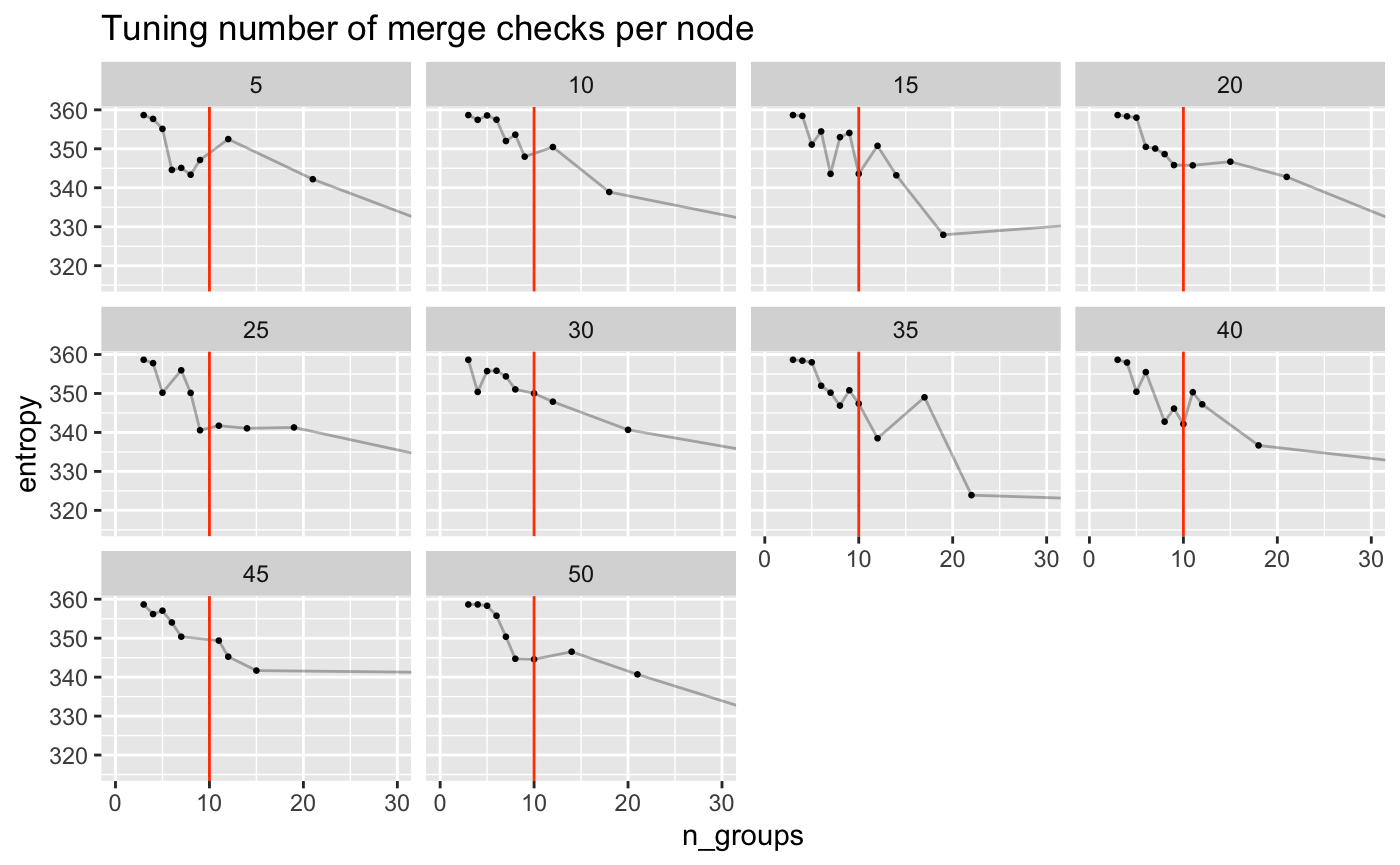
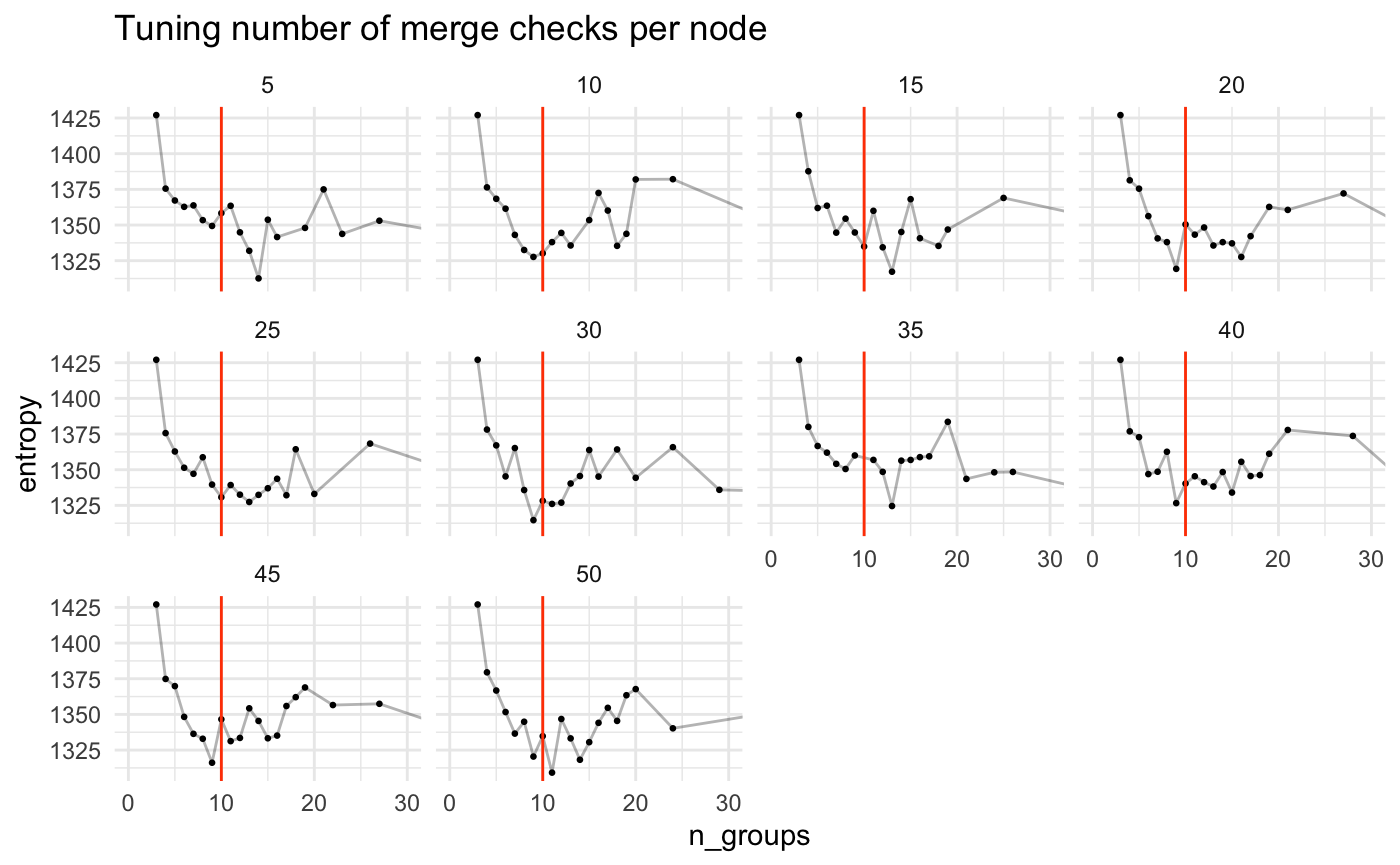
Updated clarity of plots in agglomerative merging vignette

diff --git a/docs/articles/agglomerative_merging.html b/docs/articles/agglomerative_merging.html
@@ -159,13 +159,13 @@
 <a class="sourceLine" id="cb5-10" data-line-number="10">}</a>
 <a class="sourceLine" id="cb5-11" data-line-number="11"></a>
 <a class="sourceLine" id="cb5-12" data-line-number="12"><span class="kw">extract_n_groups</span>(merge_results) <span class="op">%&gt;%</span><span class="st"> </span><span class="kw"><a href="https://rdrr.io/r/utils/head.html">head</a></span>()</a>
-<a class="sourceLine" id="cb5-13" data-line-number="13"><span class="co">#&gt; [1] 99 55 45 40 32 30</span></a></code></pre></div>
+<a class="sourceLine" id="cb5-13" data-line-number="13"><span class="co">#&gt; [1] 99 44 35 30 29 28</span></a></code></pre></div>
 <p>Next we can look at how that number of groups corresponds to the entropy of the model.</p>
 <div class="sourceCode" id="cb6"><pre class="sourceCode r"><code class="sourceCode r"><a class="sourceLine" id="cb6-1" data-line-number="1">extract_entropy &lt;-<span class="st"> </span><span class="cf">function</span>(merge_results){</a>
 <a class="sourceLine" id="cb6-2" data-line-number="2">  merge_results <span class="op">%&gt;%</span><span class="st"> </span>purrr<span class="op">::</span><span class="kw"><a href="https://purrr.tidyverse.org/reference/map.html">map_dbl</a></span>(<span class="st">'entropy'</span>)</a>
 <a class="sourceLine" id="cb6-3" data-line-number="3">}</a>
 <a class="sourceLine" id="cb6-4" data-line-number="4"><span class="kw">extract_entropy</span>(merge_results) <span class="op">%&gt;%</span><span class="st"> </span><span class="kw"><a href="https://rdrr.io/r/utils/head.html">head</a></span>()</a>
-<a class="sourceLine" id="cb6-5" data-line-number="5"><span class="co">#&gt; [1] 1292.981 1381.148 1413.521 1472.310 1475.906 1487.943</span></a></code></pre></div>
+<a class="sourceLine" id="cb6-5" data-line-number="5"><span class="co">#&gt; [1] 1240.473 1286.266 1330.581 1317.687 1329.398 1341.747</span></a></code></pre></div>
 <p>We should almost always see the entropy decrease as we remove groups but if there is signal in the model and the algorithm found it, we should see a relativel “lack of decrease” around the true structure value. We know the true number of groups in this data is 6 so we can reference that here…</p>
 <div class="sourceCode" id="cb7"><pre class="sourceCode r"><code class="sourceCode r"><a class="sourceLine" id="cb7-1" data-line-number="1">results_to_df &lt;-<span class="st"> </span><span class="cf">function</span>(merge_results){</a>
 <a class="sourceLine" id="cb7-2" data-line-number="2">  <span class="kw">tibble</span>(</a>
@@ -176,17 +176,28 @@
 <a class="sourceLine" id="cb7-7" data-line-number="7"></a>
 <a class="sourceLine" id="cb7-8" data-line-number="8"></a>
 <a class="sourceLine" id="cb7-9" data-line-number="9"></a>
-<a class="sourceLine" id="cb7-10" data-line-number="10">plot_merge_results &lt;-<span class="st"> </span><span class="cf">function</span>(merge_results_df){</a>
-<a class="sourceLine" id="cb7-11" data-line-number="11">  <span class="kw">ggplot</span>(merge_results_df, <span class="kw">aes</span>(<span class="dt">x =</span> n_groups, <span class="dt">y =</span> entropy)) <span class="op">+</span></a>
-<a class="sourceLine" id="cb7-12" data-line-number="12"><span class="st">    </span><span class="kw">geom_line</span>(<span class="dt">alpha =</span> <span class="fl">0.3</span>) <span class="op">+</span></a>
-<a class="sourceLine" id="cb7-13" data-line-number="13"><span class="st">    </span><span class="kw">geom_point</span>(<span class="dt">size =</span> <span class="fl">0.5</span>) <span class="op">+</span></a>
-<a class="sourceLine" id="cb7-14" data-line-number="14"><span class="st">    </span><span class="kw">geom_vline</span>(<span class="dt">xintercept =</span> K_a <span class="op">+</span><span class="st"> </span>K_b, <span class="dt">color =</span> <span class="st">'orangered'</span>) <span class="op">+</span></a>
-<a class="sourceLine" id="cb7-15" data-line-number="15"><span class="st">    </span><span class="kw">coord_cartesian</span>(<span class="dt">xlim =</span> <span class="kw"><a href="https://rdrr.io/r/base/c.html">c</a></span>(<span class="dv">0</span>, <span class="dv">30</span>)) </a>
-<a class="sourceLine" id="cb7-16" data-line-number="16">}</a></code></pre></div>
+<a class="sourceLine" id="cb7-10" data-line-number="10">plot_merge_results &lt;-<span class="st"> </span><span class="cf">function</span>(merge_results_df, <span class="dt">group_cutoff =</span> <span class="dv">30</span>){</a>
+<a class="sourceLine" id="cb7-11" data-line-number="11">  </a>
+<a class="sourceLine" id="cb7-12" data-line-number="12">  results_below_cutoff &lt;-<span class="st"> </span>merge_results_df <span class="op">%&gt;%</span><span class="st"> </span></a>
+<a class="sourceLine" id="cb7-13" data-line-number="13"><span class="st">    </span><span class="kw"><a href="https://rdrr.io/r/stats/filter.html">filter</a></span>(n_groups <span class="op">&lt;</span><span class="st"> </span>group_cutoff)</a>
+<a class="sourceLine" id="cb7-14" data-line-number="14">  </a>
+<a class="sourceLine" id="cb7-15" data-line-number="15">  max_entropy &lt;-<span class="st"> </span><span class="kw"><a href="https://rdrr.io/r/base/Extremes.html">max</a></span>(results_below_cutoff<span class="op">$</span>entropy)</a>
+<a class="sourceLine" id="cb7-16" data-line-number="16">  min_entropy &lt;-<span class="st"> </span><span class="kw"><a href="https://rdrr.io/r/base/Extremes.html">min</a></span>(results_below_cutoff<span class="op">$</span>entropy)</a>
+<a class="sourceLine" id="cb7-17" data-line-number="17">  </a>
+<a class="sourceLine" id="cb7-18" data-line-number="18">  <span class="kw">ggplot</span>(merge_results_df, <span class="kw">aes</span>(<span class="dt">x =</span> n_groups, <span class="dt">y =</span> entropy)) <span class="op">+</span></a>
+<a class="sourceLine" id="cb7-19" data-line-number="19"><span class="st">    </span><span class="kw">geom_line</span>(<span class="dt">alpha =</span> <span class="fl">0.3</span>) <span class="op">+</span></a>
+<a class="sourceLine" id="cb7-20" data-line-number="20"><span class="st">    </span><span class="kw">geom_point</span>(<span class="dt">size =</span> <span class="fl">0.5</span>) <span class="op">+</span></a>
+<a class="sourceLine" id="cb7-21" data-line-number="21"><span class="st">    </span><span class="kw">geom_vline</span>(<span class="dt">xintercept =</span> K_a <span class="op">+</span><span class="st"> </span>K_b, <span class="dt">color =</span> <span class="st">'orangered'</span>) <span class="op">+</span></a>
+<a class="sourceLine" id="cb7-22" data-line-number="22"><span class="st">    </span><span class="kw">coord_cartesian</span>(</a>
+<a class="sourceLine" id="cb7-23" data-line-number="23">      <span class="dt">xlim =</span> <span class="kw"><a href="https://rdrr.io/r/base/c.html">c</a></span>(<span class="dv">0</span>, group_cutoff),</a>
+<a class="sourceLine" id="cb7-24" data-line-number="24">      <span class="dt">ylim =</span> <span class="kw"><a href="https://rdrr.io/r/base/c.html">c</a></span>(min_entropy, max_entropy)</a>
+<a class="sourceLine" id="cb7-25" data-line-number="25">    ) <span class="op">+</span></a>
+<a class="sourceLine" id="cb7-26" data-line-number="26"><span class="st">    </span><span class="kw">theme_minimal</span>()</a>
+<a class="sourceLine" id="cb7-27" data-line-number="27">}</a></code></pre></div>
 <div class="sourceCode" id="cb8"><pre class="sourceCode r"><code class="sourceCode r"><a class="sourceLine" id="cb8-1" data-line-number="1">merge_results <span class="op">%&gt;%</span><span class="st"> </span><span class="kw">results_to_df</span>() <span class="op">%&gt;%</span><span class="st"> </span><span class="kw">plot_merge_results</span>()</a></code></pre></div>
 <p><img src="agglomerative_merging_files/figure-html/unnamed-chunk-8-1.png" width="700"></p>
 <p>We can perform the same setup but this time not using greedy but the sampling version</p>
-<div class="sourceCode" id="cb9"><pre class="sourceCode r"><code class="sourceCode r"><a class="sourceLine" id="cb9-1" data-line-number="1">new_sbm &lt;-<span class="st"> </span><span class="kw"><a href="../reference/create_sbm.html">create_sbm</a></span>(simulated_network<span class="op">$</span>edges, simulated_network<span class="op">$</span>nodes)</a>
+<div class="sourceCode" id="cb9"><pre class="sourceCode r"><code class="sourceCode r"><a class="sourceLine" id="cb9-1" data-line-number="1">new_sbm &lt;-<span class="st"> </span><span class="kw"><a href="../reference/create_sbm.html">create_sbm</a></span>(edges, nodes)</a>
 <a class="sourceLine" id="cb9-2" data-line-number="2">new_sbm<span class="op">$</span>GREEDY &lt;-<span class="st"> </span><span class="ot">FALSE</span></a>
 <a class="sourceLine" id="cb9-3" data-line-number="3">new_sbm<span class="op">$</span>N_CHECKS_PER_GROUP &lt;-<span class="st"> </span><span class="dv">10</span></a>
 <a class="sourceLine" id="cb9-4" data-line-number="4">non_greedy_merge_results &lt;-<span class="st"> </span>new_sbm<span class="op">$</span><span class="kw">collapse_groups</span>(0L, 15L)</a>
@@ -197,7 +208,7 @@
 <div class="sourceCode" id="cb10"><pre class="sourceCode r"><code class="sourceCode r"><a class="sourceLine" id="cb10-1" data-line-number="1">merges_over_changes &lt;-<span class="st"> </span>purrr<span class="op">::</span><span class="kw"><a href="https://purrr.tidyverse.org/reference/map.html">map_dfr</a></span>(</a>
 <a class="sourceLine" id="cb10-2" data-line-number="2">  <span class="kw"><a href="https://rdrr.io/r/base/seq.html">seq</a></span>(<span class="dv">5</span>, <span class="dv">50</span>, <span class="dt">by =</span> <span class="dv">5</span>),</a>
 <a class="sourceLine" id="cb10-3" data-line-number="3">  <span class="op">~</span>{</a>
-<a class="sourceLine" id="cb10-4" data-line-number="4">    new_sbm &lt;-<span class="st"> </span><span class="kw"><a href="../reference/create_sbm.html">create_sbm</a></span>(simulated_network<span class="op">$</span>edges, simulated_network<span class="op">$</span>nodes)</a>
+<a class="sourceLine" id="cb10-4" data-line-number="4">    new_sbm &lt;-<span class="st"> </span><span class="kw"><a href="../reference/create_sbm.html">create_sbm</a></span>(edges, nodes)</a>
 <a class="sourceLine" id="cb10-5" data-line-number="5">    new_sbm<span class="op">$</span>GREEDY &lt;-<span class="st"> </span><span class="ot">FALSE</span></a>
 <a class="sourceLine" id="cb10-6" data-line-number="6">    new_sbm<span class="op">$</span>N_CHECKS_PER_GROUP &lt;-<span class="st"> </span>.x</a>
 <a class="sourceLine" id="cb10-7" data-line-number="7">    merge_results &lt;-<span class="st"> </span>new_sbm<span class="op">$</span><span class="kw">collapse_groups</span>(0L, 15L)</a>
@@ -211,7 +222,7 @@
 <div class="sourceCode" id="cb11"><pre class="sourceCode r"><code class="sourceCode r"><a class="sourceLine" id="cb11-1" data-line-number="1">merges_over_sweeps &lt;-<span class="st"> </span>purrr<span class="op">::</span><span class="kw"><a href="https://purrr.tidyverse.org/reference/map.html">map_dfr</a></span>(</a>
 <a class="sourceLine" id="cb11-2" data-line-number="2">  <span class="kw"><a href="https://rdrr.io/r/base/seq.html">seq</a></span>(<span class="dv">1</span>, <span class="dv">50</span>, <span class="dt">by =</span> <span class="dv">5</span>),</a>
 <a class="sourceLine" id="cb11-3" data-line-number="3">  <span class="op">~</span>{</a>
-<a class="sourceLine" id="cb11-4" data-line-number="4">    new_sbm &lt;-<span class="st"> </span><span class="kw"><a href="../reference/create_sbm.html">create_sbm</a></span>(simulated_network<span class="op">$</span>edges, simulated_network<span class="op">$</span>nodes)</a>
+<a class="sourceLine" id="cb11-4" data-line-number="4">    new_sbm &lt;-<span class="st"> </span><span class="kw"><a href="../reference/create_sbm.html">create_sbm</a></span>(edges, nodes)</a>
 <a class="sourceLine" id="cb11-5" data-line-number="5">    merge_results &lt;-<span class="st"> </span>new_sbm<span class="op">$</span><span class="kw">collapse_groups</span>(0L, <span class="kw"><a href="https://rdrr.io/r/base/integer.html">as.integer</a></span>(.x))</a>
 <a class="sourceLine" id="cb11-6" data-line-number="6">    <span class="kw">results_to_df</span>(merge_results) <span class="op">%&gt;%</span><span class="st"> </span><span class="kw">mutate</span>(<span class="dt">mcmc_sweeps =</span> .x)</a>
 <a class="sourceLine" id="cb11-7" data-line-number="7">  })</a>
@@ -221,6 +232,30 @@
 <a class="sourceLine" id="cb11-11" data-line-number="11"><span class="st">  </span><span class="kw">facet_wrap</span>(<span class="op">~</span>mcmc_sweeps) <span class="op">+</span></a>
 <a class="sourceLine" id="cb11-12" data-line-number="12"><span class="st">  </span><span class="kw">ggtitle</span>(<span class="st">"Tuning number of mcmc sweeps per stage"</span>)</a></code></pre></div>
 <p><img src="agglomerative_merging_files/figure-html/unnamed-chunk-11-1.png" width="700"></p>
+<div class="sourceCode" id="cb12"><pre class="sourceCode r"><code class="sourceCode r"><a class="sourceLine" id="cb12-1" data-line-number="1">merges_over_sweeps_and_greedy &lt;-<span class="st"> </span><span class="kw"><a href="https://rdrr.io/r/base/expand.grid.html">expand.grid</a></span>(</a>
+<a class="sourceLine" id="cb12-2" data-line-number="2">  <span class="dt">mcmc_sweeps =</span> <span class="kw"><a href="https://rdrr.io/r/base/seq.html">seq</a></span>(<span class="dv">1</span>, <span class="dv">51</span>, <span class="dt">by =</span> <span class="dv">10</span>),</a>
+<a class="sourceLine" id="cb12-3" data-line-number="3">  <span class="dt">greedy =</span> <span class="kw"><a href="https://rdrr.io/r/base/c.html">c</a></span>(<span class="ot">TRUE</span>, <span class="ot">FALSE</span>)</a>
+<a class="sourceLine" id="cb12-4" data-line-number="4">) <span class="op">%&gt;%</span><span class="st"> </span></a>
+<a class="sourceLine" id="cb12-5" data-line-number="5"><span class="st">  </span>{</a>
+<a class="sourceLine" id="cb12-6" data-line-number="6">    purrr<span class="op">::</span><span class="kw"><a href="https://purrr.tidyverse.org/reference/map2.html">map2_dfr</a></span>(</a>
+<a class="sourceLine" id="cb12-7" data-line-number="7">      .<span class="op">$</span>mcmc_sweeps,</a>
+<a class="sourceLine" id="cb12-8" data-line-number="8">      .<span class="op">$</span>greedy,</a>
+<a class="sourceLine" id="cb12-9" data-line-number="9">      <span class="op">~</span>{</a>
+<a class="sourceLine" id="cb12-10" data-line-number="10">        new_sbm &lt;-<span class="st"> </span><span class="kw"><a href="../reference/create_sbm.html">create_sbm</a></span>(edges, nodes)</a>
+<a class="sourceLine" id="cb12-11" data-line-number="11">        new_sbm<span class="op">$</span>GREEDY &lt;-<span class="st"> </span>.y</a>
+<a class="sourceLine" id="cb12-12" data-line-number="12">        merge_results &lt;-<span class="st"> </span>new_sbm<span class="op">$</span><span class="kw">collapse_groups</span>(0L, <span class="kw"><a href="https://rdrr.io/r/base/integer.html">as.integer</a></span>(.x))</a>
+<a class="sourceLine" id="cb12-13" data-line-number="13">        <span class="kw">results_to_df</span>(merge_results) <span class="op">%&gt;%</span><span class="st"> </span></a>
+<a class="sourceLine" id="cb12-14" data-line-number="14"><span class="st">          </span><span class="kw">mutate</span>(<span class="dt">mcmc_sweeps =</span> .x,</a>
+<a class="sourceLine" id="cb12-15" data-line-number="15">                 <span class="dt">greedy =</span> .y)</a>
+<a class="sourceLine" id="cb12-16" data-line-number="16">      }</a>
+<a class="sourceLine" id="cb12-17" data-line-number="17">    )</a>
+<a class="sourceLine" id="cb12-18" data-line-number="18">  }</a>
+<a class="sourceLine" id="cb12-19" data-line-number="19"></a>
+<a class="sourceLine" id="cb12-20" data-line-number="20"></a>
+<a class="sourceLine" id="cb12-21" data-line-number="21"><span class="kw">plot_merge_results</span>(merges_over_sweeps_and_greedy) <span class="op">+</span><span class="st"> </span></a>
+<a class="sourceLine" id="cb12-22" data-line-number="22"><span class="st">  </span><span class="kw">facet_grid</span>(mcmc_sweeps<span class="op">~</span>greedy) <span class="op">+</span></a>
+<a class="sourceLine" id="cb12-23" data-line-number="23"><span class="st">  </span><span class="kw">ggtitle</span>(<span class="st">"Tuning number of mcmc sweeps per stage"</span>)</a></code></pre></div>
+<p><img src="agglomerative_merging_files/figure-html/unnamed-chunk-12-1.png" width="700"></p>
   </div>
 
   <div class="col-md-3 hidden-xs hidden-sm" id="sidebar">
